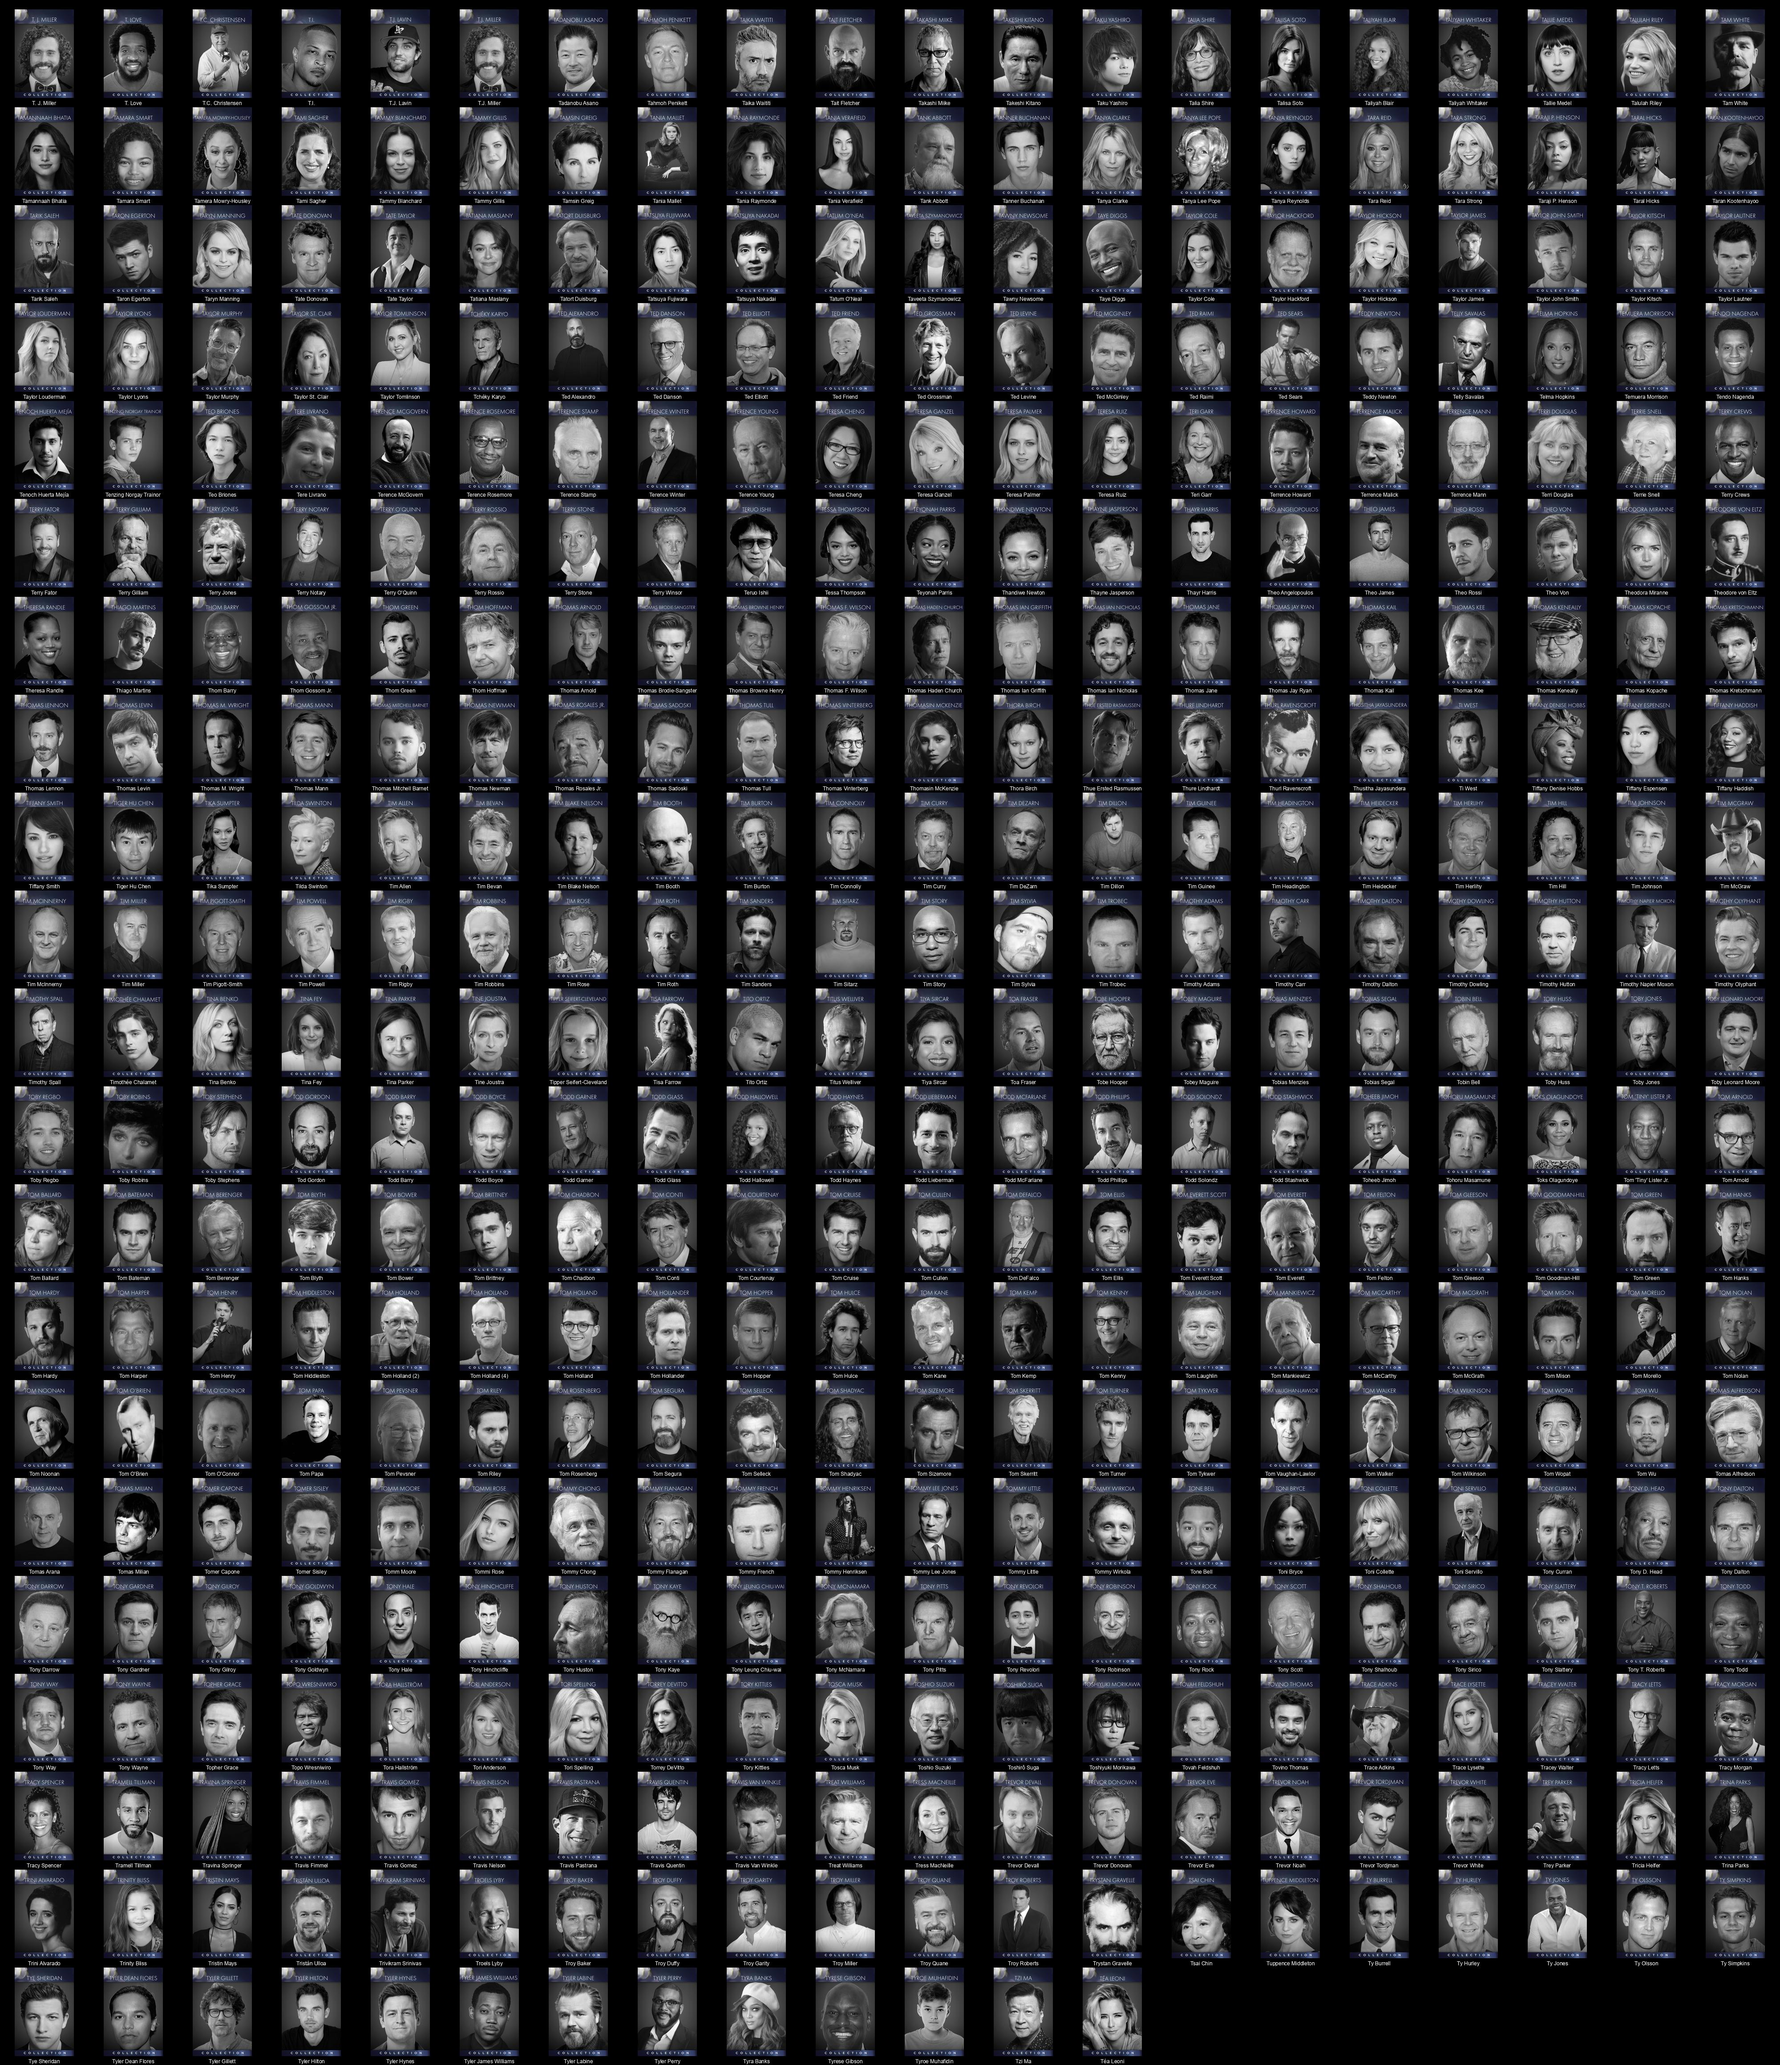
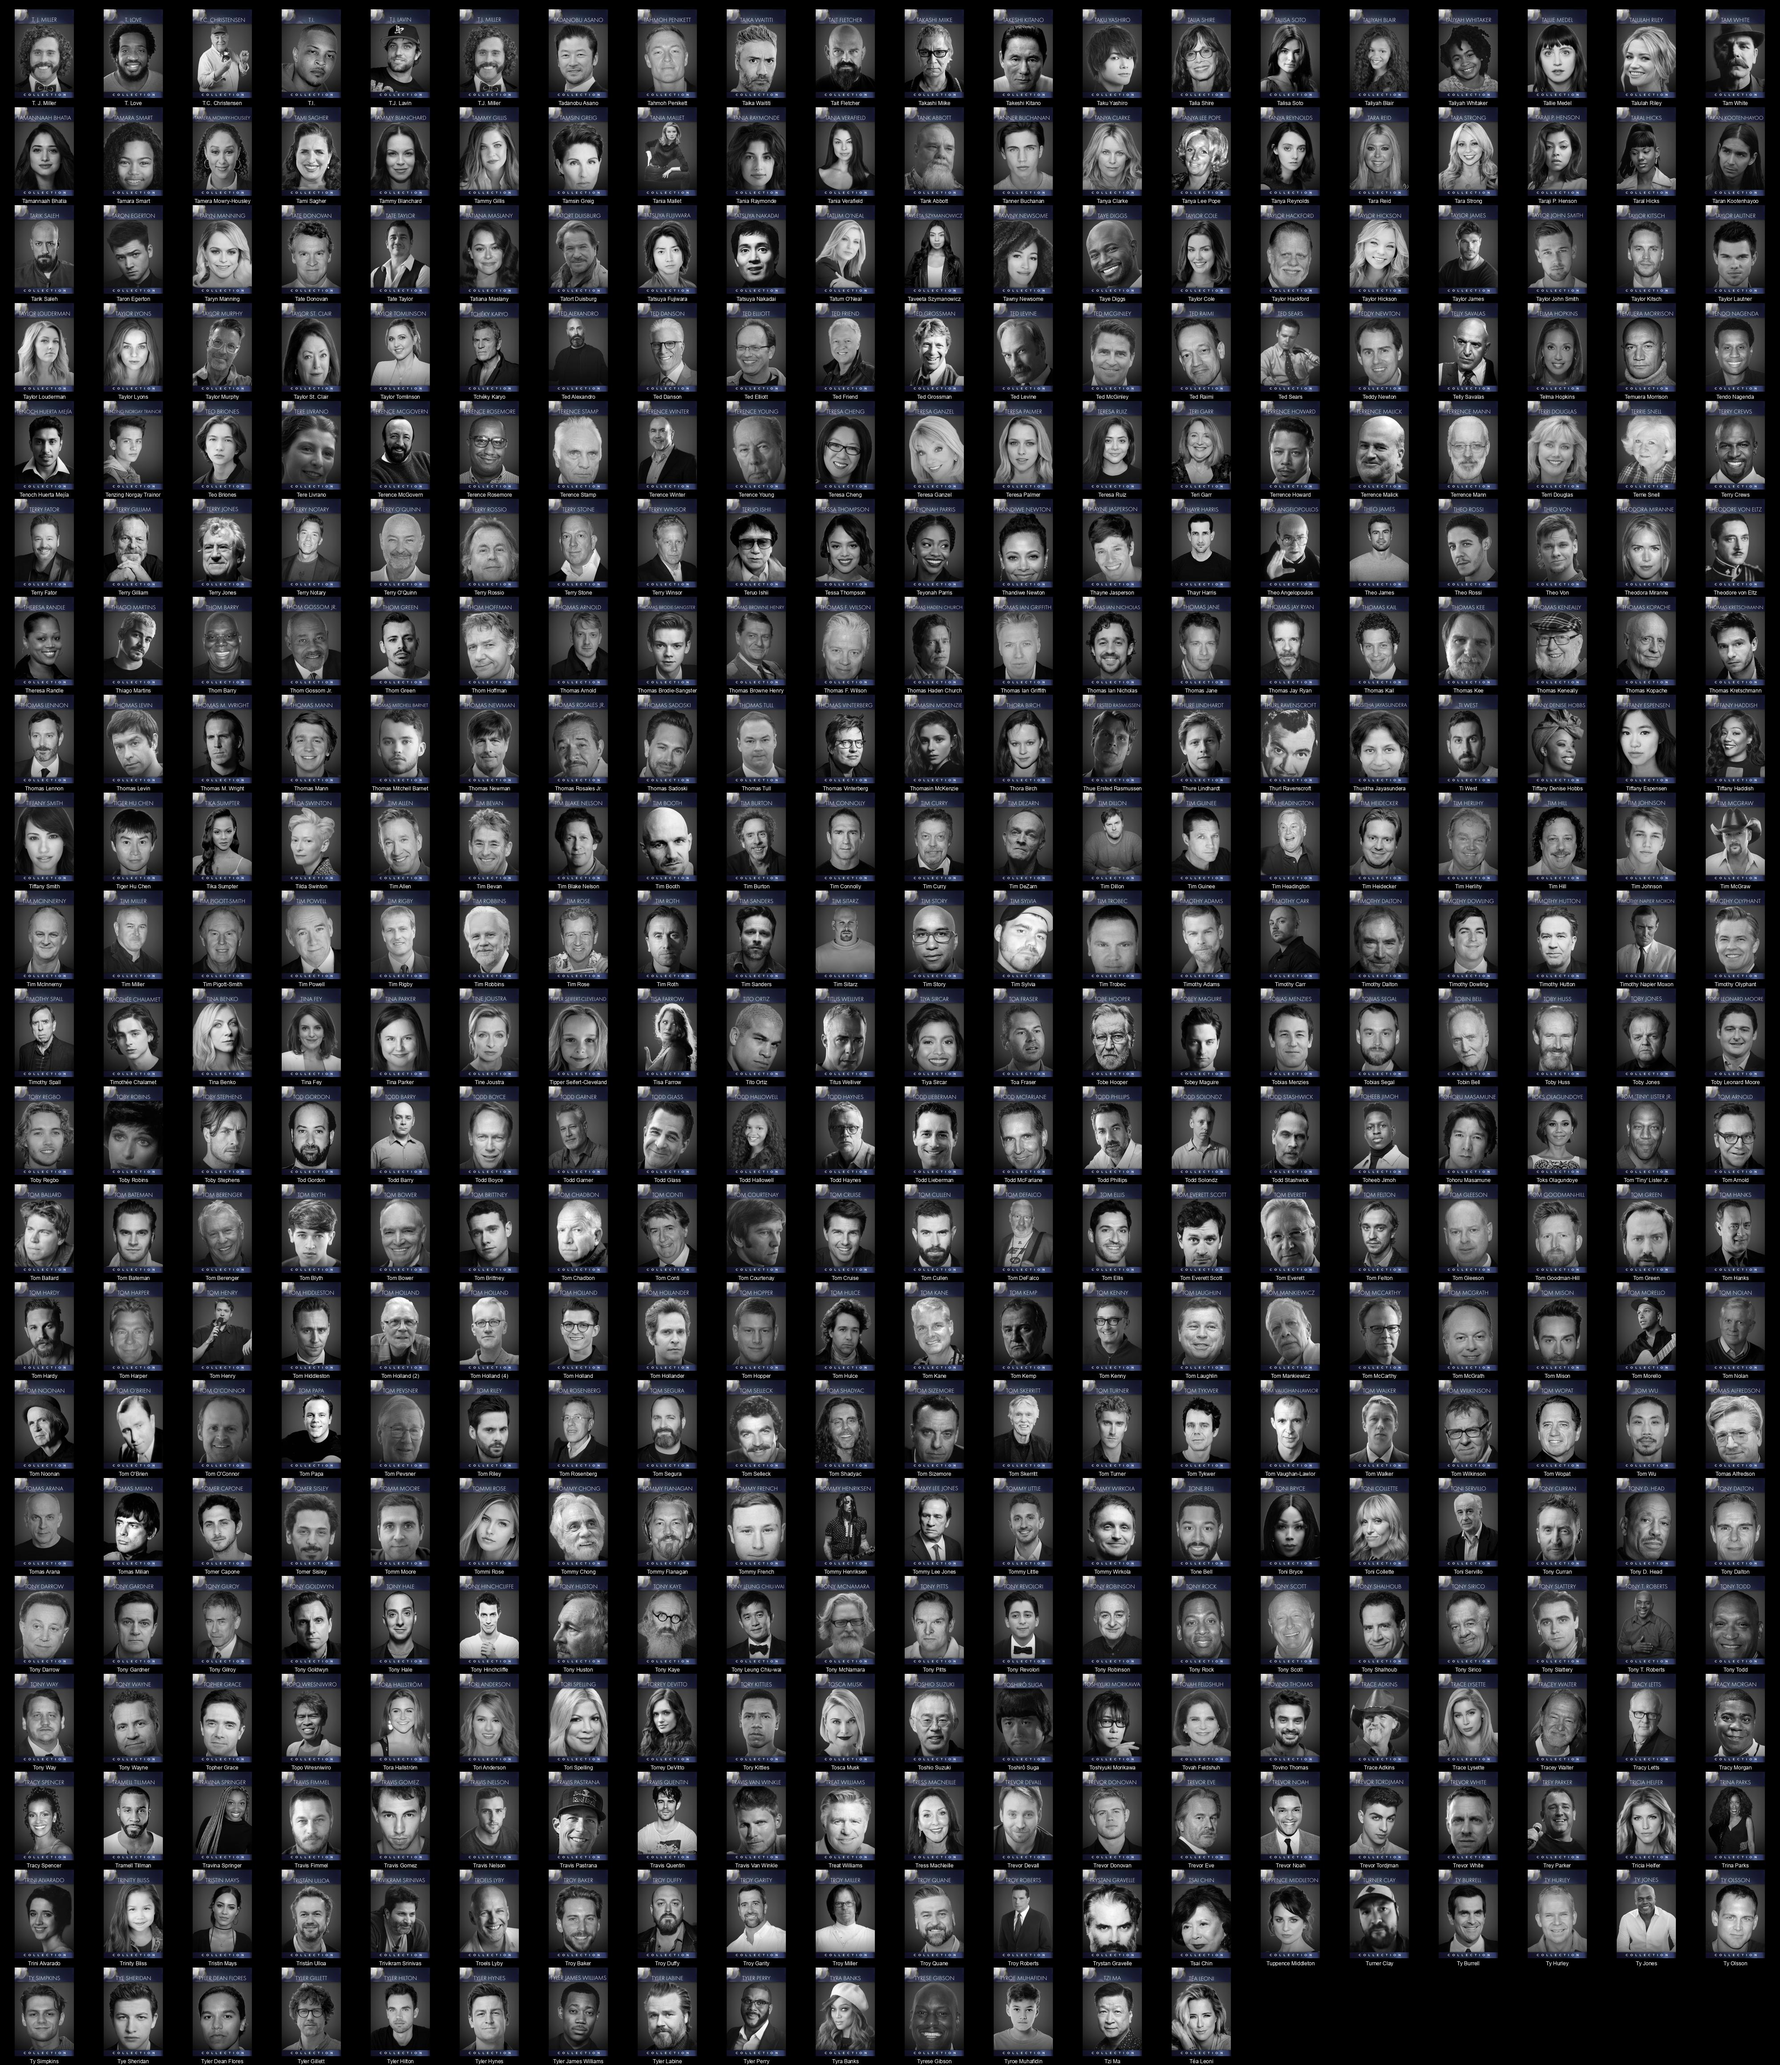
Readme Update

diff --git a/README.md b/README.md
@@ -1,4 +1,4 @@
-# Plex Meta Manager People - DIIIVOY (diiivoy) (8704 Images)
+# Plex Meta Manager People - DIIIVOY (diiivoy) (8705 Images)
 
 <details><summary><a href="'">' (1 Images)</a></summary>
 
@@ -7966,7 +7966,7 @@
 * [Søren Pilmark](https://raw.githubusercontent.com/meisnate12/Plex-Meta-Manager-People-diiivoy/master/S/Images/S%C3%B8ren%20Pilmark.jpg)
 * [Sō Yamanaka](https://raw.githubusercontent.com/meisnate12/Plex-Meta-Manager-People-diiivoy/master/S/Images/S%C5%8D%20Yamanaka.jpg)
 </details>
-<details><summary><a href="T">T (413 Images)</a></summary>
+<details><summary><a href="T">T (414 Images)</a></summary>
 
 * [T. J. Miller](https://raw.githubusercontent.com/meisnate12/Plex-Meta-Manager-People-diiivoy/master/T/Images/T.%20J.%20Miller.jpg)
 * [T. Love](https://raw.githubusercontent.com/meisnate12/Plex-Meta-Manager-People-diiivoy/master/T/Images/T.%20Love.jpg)
@@ -8363,6 +8363,7 @@
 * [Trystan Gravelle](https://raw.githubusercontent.com/meisnate12/Plex-Meta-Manager-People-diiivoy/master/T/Images/Trystan%20Gravelle.jpg)
 * [Tsai Chin](https://raw.githubusercontent.com/meisnate12/Plex-Meta-Manager-People-diiivoy/master/T/Images/Tsai%20Chin.jpg)
 * [Tuppence Middleton](https://raw.githubusercontent.com/meisnate12/Plex-Meta-Manager-People-diiivoy/master/T/Images/Tuppence%20Middleton.jpg)
+* [Turner Clay](https://raw.githubusercontent.com/meisnate12/Plex-Meta-Manager-People-diiivoy/master/T/Images/Turner%20Clay.jpg)
 * [Ty Burrell](https://raw.githubusercontent.com/meisnate12/Plex-Meta-Manager-People-diiivoy/master/T/Images/Ty%20Burrell.jpg)
 * [Ty Hurley](https://raw.githubusercontent.com/meisnate12/Plex-Meta-Manager-People-diiivoy/master/T/Images/Ty%20Hurley.jpg)
 * [Ty Jones](https://raw.githubusercontent.com/meisnate12/Plex-Meta-Manager-People-diiivoy/master/T/Images/Ty%20Jones.jpg)

diff --git a/T/README.md b/T/README.md
@@ -1,4 +1,4 @@
-# Plex Meta Manager People - DIIIVOY (diiivoy) - T (413 Images)
+# Plex Meta Manager People - DIIIVOY (diiivoy) - T (414 Images)
 ![Grid](grid.jpg)
 
 * [T. J. Miller](https://raw.githubusercontent.com/meisnate12/Plex-Meta-Manager-People-diiivoy/master/T/Images/T.%20J.%20Miller.jpg)
@@ -396,6 +396,7 @@
 * [Trystan Gravelle](https://raw.githubusercontent.com/meisnate12/Plex-Meta-Manager-People-diiivoy/master/T/Images/Trystan%20Gravelle.jpg)
 * [Tsai Chin](https://raw.githubusercontent.com/meisnate12/Plex-Meta-Manager-People-diiivoy/master/T/Images/Tsai%20Chin.jpg)
 * [Tuppence Middleton](https://raw.githubusercontent.com/meisnate12/Plex-Meta-Manager-People-diiivoy/master/T/Images/Tuppence%20Middleton.jpg)
+* [Turner Clay](https://raw.githubusercontent.com/meisnate12/Plex-Meta-Manager-People-diiivoy/master/T/Images/Turner%20Clay.jpg)
 * [Ty Burrell](https://raw.githubusercontent.com/meisnate12/Plex-Meta-Manager-People-diiivoy/master/T/Images/Ty%20Burrell.jpg)
 * [Ty Hurley](https://raw.githubusercontent.com/meisnate12/Plex-Meta-Manager-People-diiivoy/master/T/Images/Ty%20Hurley.jpg)
 * [Ty Jones](https://raw.githubusercontent.com/meisnate12/Plex-Meta-Manager-People-diiivoy/master/T/Images/Ty%20Jones.jpg)
